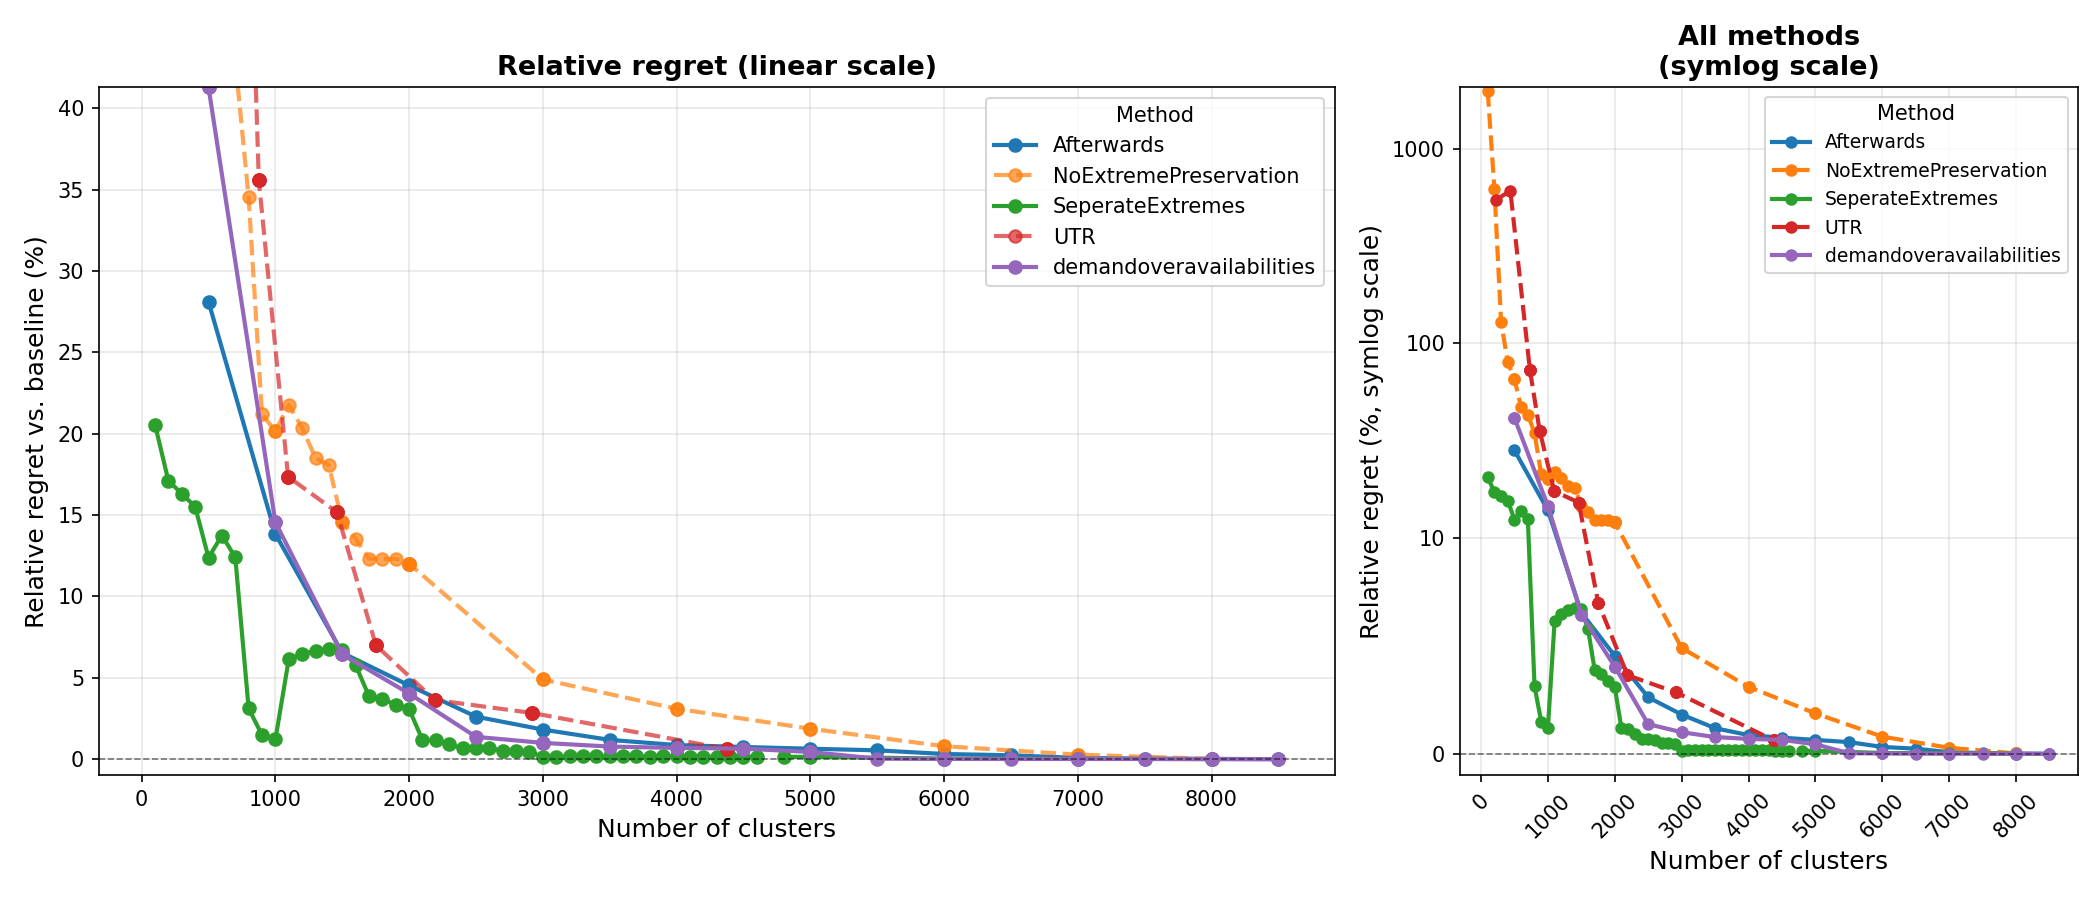
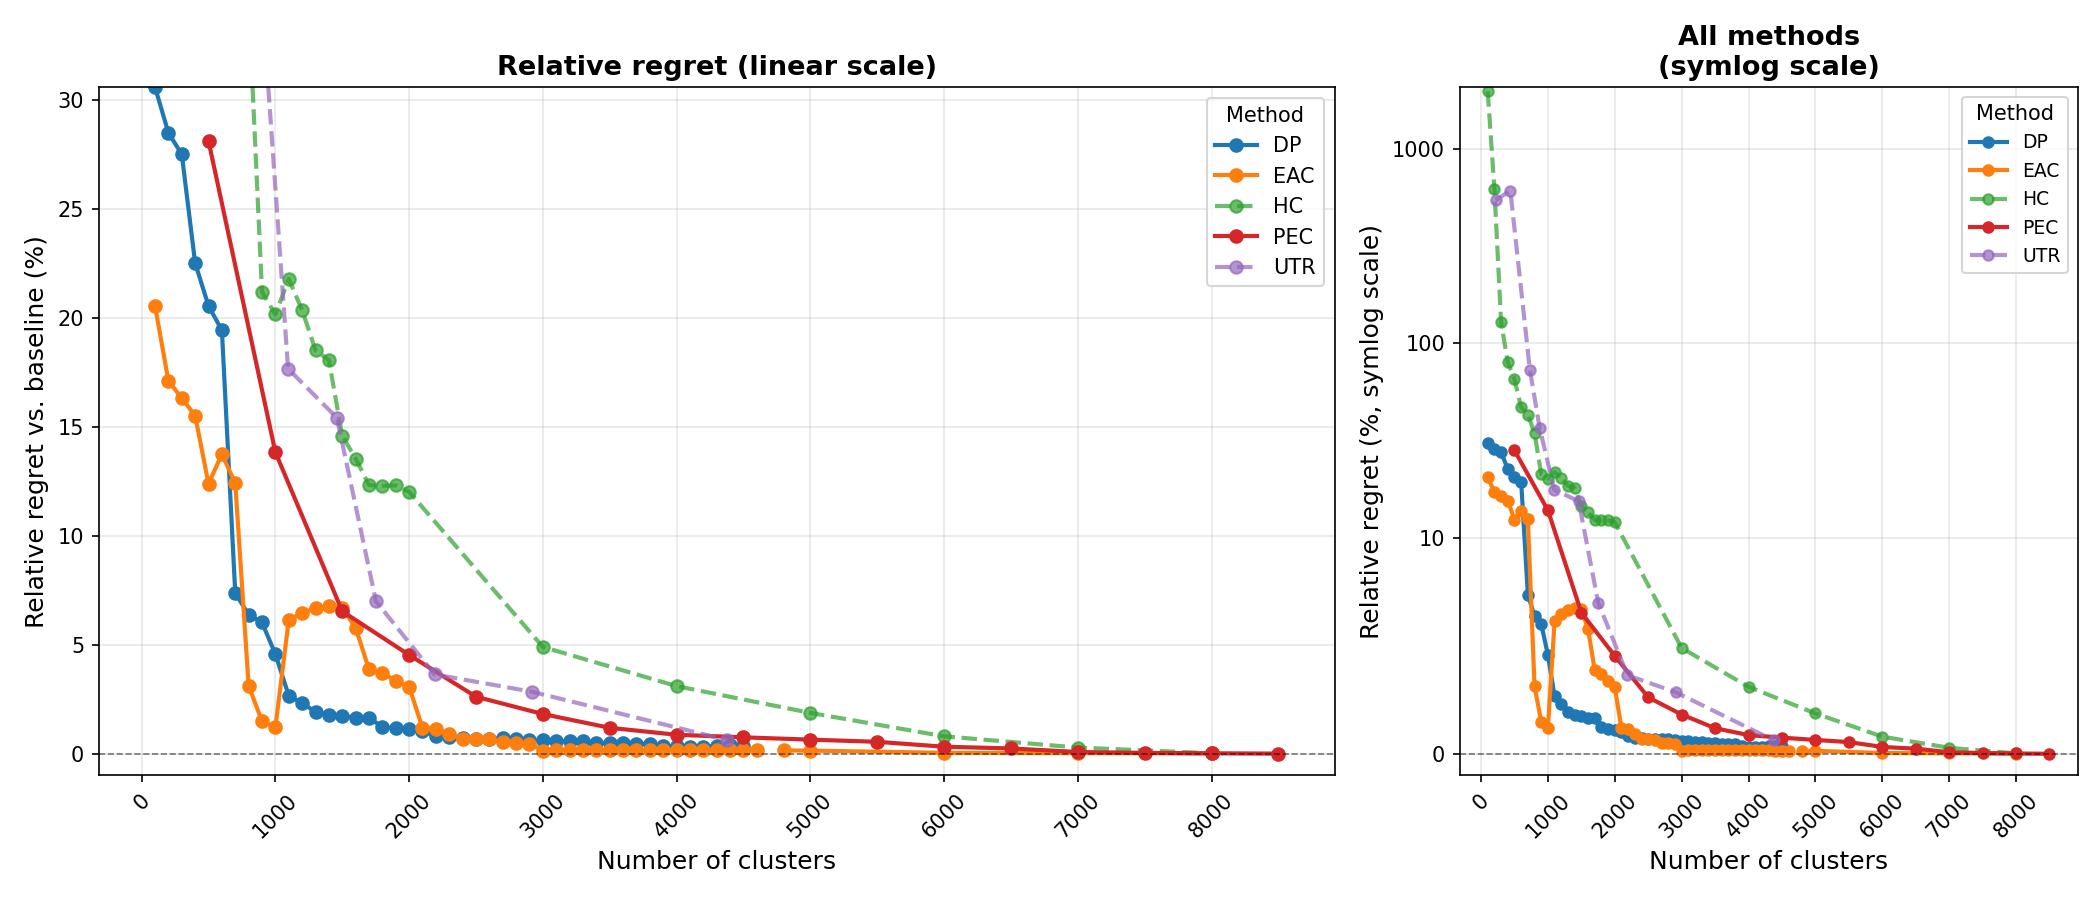
plotting relative regret

diff --git a/plotting/after/plot_relative_regret_vs_num_clusters.py b/plotting/after/plot_relative_regret_vs_num_clusters.py
@@ -13,75 +13,71 @@ output_dir.mkdir(parents=True, exist_ok=True)
 ENS_COST_PER_UNIT = 68887
 
 # -----------------------------
+# Experiment label mapping
+# Edit this dict to rename experiments in the legend.
+# Key:   substring matched against file_name (checked in order)
+# Value: label shown in the plot
+# -----------------------------
+EXPERIMENT_LABELS = {
+    # "demandoveravailabilities": "Demand/Avail.",
+    "utr":                       "UTR",
+    # "global_NoExtremePreservation": "HC (global)",
+    "perlocation_NoExtremePreservation": "HC",
+    "perlocation_SeperateExtremesSum":   "EAC",
+    "perlocation_Afterwards":   "PEC",
+    "perlocation_DynamicProgramming_hp":    "DP",
+    # "perlocation_DynamicProgramming_s672":    "DP (672)",
+    # "perlocation_DynamicProgramming_s2688":    "DP (2688)",
+    "base_case":                 "Base case",
+}
+
+# Which labels should appear dashed + faded in the main panel
+METHODS_ON_FOR_LOG_SCALE = {
+    "HC (global)",
+    "UTR",
+    "HC",
+}
+
+def label_from_file_name(file_name: str) -> str:
+    """Map a file_name to a display label using EXPERIMENT_LABELS."""
+    for key, label in EXPERIMENT_LABELS.items():
+        if key in file_name:
+            return label
+    return file_name  # fallback: show raw name
+
+
+# -----------------------------
 # Load & prepare data
 # -----------------------------
 df = pd.read_csv(csv_path)
 
-methods = [
-    "SeperateExtremesSum",
-    "Afterwards",
-    "NoExtremePreservation",
-    # "NoExtremePreservation Global",
-    "base_case",
-    # "demandoveravailabilities",
-    "UTR",
-    "DynamicProgramming"
-    
-]
+# Derive display label from file_name
+df["label"] = df["file_name"].apply(label_from_file_name)
 
-methods_on_for_log_scale = [
-    "NoExtremePreservation",
-    "UTR",
-    "NoExtremePreservation Global",
-]
+# Keep only experiments that appear in EXPERIMENT_LABELS
+known_labels = set(EXPERIMENT_LABELS.values())
+df = df[df["label"].isin(known_labels)]
 
-df = df[df["method"].isin(methods)]
-# Clean up method names if needed
-df['method'] = df['method'].str.strip()
-
-df.loc[df["method"] == "SeperateExtremesSum", "method"] = "SeperateExtremes"
-
-df["ens_cost"] = df["energy_not_served"] * ENS_COST_PER_UNIT
-df["total_cost"] = (
-    df["investment_cost"]
-    + df["true_operational_cost"]
-    - df["ens_cost"]   # operational cost already includes ENS; add explicit ENS cost
-    + df["ens_cost"]
-)
-# Simpler: total = investment + operational (which includes ENS implicitly) + explicit ENS penalty
-# Based on original script: total_regret = ens_cost + operational_cost_without_ens + investment_cost
-#   where operational_cost_without_ens = true_operational_cost - ens_cost
-# So: total_regret = true_operational_cost + investment_cost  (ens_cost cancels out, then re-added)
-# Actually from original: total = (true_op - ens_cost) + ens_cost + investment = true_op + investment
-# But that's just true_op + investment. Let's stay consistent with original script:
 df["ens_cost"] = df["energy_not_served"] * ENS_COST_PER_UNIT
 df["operational_cost_without_ens"] = df["true_operational_cost"] - df["ens_cost"]
 df["total_regret"] = df["ens_cost"] + df["operational_cost_without_ens"] + df["investment_cost"]
 
-# Baseline: 8760 clusters (one row, no method ambiguity assumed)
 baseline_row = df[df["num_clusters"] == 8760]
 assert len(baseline_row) == 1, f"Expected 1 baseline row, got {len(baseline_row)}"
 baseline_value = baseline_row["total_regret"].values[0]
 
 df["relative_regret"] = (df["total_regret"] - baseline_value) * 100 / baseline_value
 
-# Exclude baseline from line plots (it's a single point at 8760, no line to draw)
 plot_df = df[df["num_clusters"] != 8760].copy()
 
-methods = sorted(plot_df["method"].unique())
-# x_vals = sorted(plot_df["num_clusters"].unique())
+labels = sorted(plot_df["label"].unique())
 x_vals = list(range(0, 8760, 1000))
 
-# Colour palette — one colour per method
 colors = plt.cm.tab10.colors
-method_colors = {m: colors[i % len(colors)] for i, m in enumerate(methods)}
-
-other_methods = [m for m in methods if m not in methods_on_for_log_scale]
+label_colors = {lbl: colors[i % len(colors)] for i, lbl in enumerate(labels)}
 
 # -----------------------------
-# Figure: two-panel layout
-# Main panel  — all methods except NoExtremePreservation
-# Inset panel — all methods including NoExtremePreservation (log scale)
+# Plot
 # -----------------------------
 fig, (ax_main, ax_log) = plt.subplots(
     1, 2,
@@ -89,63 +85,42 @@ fig, (ax_main, ax_log) = plt.subplots(
     gridspec_kw={"width_ratios": [2, 1]},
 )
 
-# Determine y-limit based only on non-log-scale methods
 y_max = plot_df[
-    ~plot_df["method"].isin(methods_on_for_log_scale)
+    ~plot_df["label"].isin(METHODS_ON_FOR_LOG_SCALE)
 ]["relative_regret"].max()
 
-# --- Main panel ---
-for method in methods:
-    sub = plot_df[plot_df["method"] == method].sort_values("num_clusters")
+for ax, use_log in [(ax_main, False), (ax_log, True)]:
+    for lbl in labels:
+        sub = plot_df[plot_df["label"] == lbl].sort_values("num_clusters")
+        is_log_only = lbl in METHODS_ON_FOR_LOG_SCALE
+        ax.plot(
+            sub["num_clusters"],
+            sub["relative_regret"],
+            marker="o",
+            label=lbl,
+            color=label_colors[lbl],
+            linewidth=2,
+            markersize=6 if not use_log else 5,
+            linestyle="--" if is_log_only else "-",
+            alpha=0.7 if is_log_only else 1.0,
+        )
 
-    ax_main.plot(
-        sub["num_clusters"],
-        sub["relative_regret"],
-        marker="o",
-        label=method,
-        color=method_colors[method],
-        linewidth=2,
-        markersize=6,
-        linestyle="--" if method in methods_on_for_log_scale else "-",
-        alpha=0.7 if method in methods_on_for_log_scale else 1.0,
-    )
+    ax.axhline(0, color="black", linewidth=0.8, linestyle="--", alpha=0.5)
+    ax.set_xlabel("Number of clusters", fontsize=12)
+    ax.set_xticks(x_vals)
+    ax.tick_params(axis="x", rotation=45)
+    ax.legend(title="Method", fontsize=9 if use_log else 10)
+    ax.grid(True, alpha=0.3)
 
-ax_main.axhline(0, color="black", linewidth=0.8, linestyle="--", alpha=0.5)
-ax_main.set_xlabel("Number of clusters", fontsize=12)
 ax_main.set_ylabel("Relative regret vs. baseline (%)", fontsize=12)
 ax_main.set_title("Relative regret (linear scale)", fontsize=13, fontweight="bold")
-ax_main.set_xticks(x_vals)
 ax_main.set_ylim(top=y_max, bottom=-1)
-# ax_main.set_ylim(top=100, bottom=-1)
-ax_main.legend(title="Method", fontsize=10)
-ax_main.grid(True, alpha=0.3)
 
-# --- Log panel (all methods incl. No EP) ---
-for method in methods:
-    sub = plot_df[plot_df["method"] == method].sort_values("num_clusters")
-    # log scale needs positive values; shift so minimum > 0
-    ax_log.plot(
-        sub["num_clusters"],
-        sub["relative_regret"],
-        marker="o",
-        label=method,
-        color=method_colors[method],
-        linewidth=2,
-        markersize=5,
-        linestyle="--" if method in methods_on_for_log_scale else "-",
-    )
-
-ax_log.axhline(0, color="black", linewidth=0.8, linestyle="--", alpha=0.5)
-ax_log.set_yscale("symlog", linthresh=10)   # symlog handles negative + large positive
+ax_log.set_yscale("symlog", linthresh=10)
 ax_log.set_ylim(bottom=-1)
 ax_log.yaxis.set_major_formatter(mticker.ScalarFormatter())
-ax_log.set_xlabel("Number of clusters", fontsize=12)
 ax_log.set_ylabel("Relative regret (%, symlog scale)", fontsize=12)
 ax_log.set_title("All methods\n(symlog scale)", fontsize=13, fontweight="bold")
-ax_log.set_xticks(x_vals)
-ax_log.tick_params(axis="x", rotation=45)
-ax_log.legend(title="Method", fontsize=9)
-ax_log.grid(True, alpha=0.3)
 
 plt.tight_layout()
 out_path = output_dir / "relative_regret_vs_clusters.png"
@@ -154,4 +129,4 @@ plt.close()
 
 print(f"Saved to {out_path}")
 print("\nRelative regret values:")
-print(df[["method", "num_clusters", "relative_regret"]].to_string(index=False))
+print(df[["label", "num_clusters", "relative_regret"]].to_string(index=False))

diff --git a/plotting/after/combine_regret_data.py b/plotting/after/combine_regret_data.py
@@ -153,24 +153,37 @@ if not csv_files:
 
 df = pd.concat([pd.read_csv(f) for f in csv_files], ignore_index=True)
 
+# Keep only the last run per (file_name, calc_ens) — earlier rows are buggy reruns
+df = df.groupby(["file_name", "calc_ens"], sort=False).last().reset_index()
+
 # Drop unwanted columns (ignore if already absent)
 df.drop(columns=[c for c in COLS_TO_DROP if c in df.columns], inplace=True)
 
-# Separate base runs and ENS runs, then merge
+# df["calc_ens"] = df["calc_ens"].map({"true": True, "false": False})
+
 df_base = df[df["calc_ens"] == False].copy()
 df_ens  = df[df["calc_ens"] == True].copy()
+
+
+df_base = df_base.groupby("file_name", sort=False).last().reset_index()
+df_ens  = df_ens.groupby("file_name", sort=False).last().reset_index()
 
 ens_only_cols = ["energy_not_served"]
 merge_keys    = ["method", "num_clusters"]
 
+# Strip "ens_" prefix so file_name matches the base run
+df_ens["file_name"] = df_ens["file_name"].str.removeprefix("ens_")
+
+# Keep only the last ENS run per file_name
+df_ens = df_ens.groupby("file_name", sort=False).last().reset_index()
+
+df_base = df_base.drop(columns=["energy_not_served"], errors="ignore")
+
 df_merged = df_base.merge(
-    df_ens[merge_keys + ens_only_cols],
-    on=merge_keys,
+    df_ens[["file_name"] + ens_only_cols],
+    on="file_name",
     how="left",
-    suffixes=("_drop", ""),
 )
-drop_cols = [c for c in df_merged.columns if c.endswith("_drop")]
-df_merged.drop(columns=drop_cols, inplace=True)
 
 df_merged.loc[
     df_merged["file_name"].str.contains("demandoveravailabilities"),
@@ -219,9 +232,11 @@ df_merged["true_operational_cost"] = true_op_costs
 inv_df = pd.DataFrame(investment_rows)
 df_final = pd.concat([df_merged.reset_index(drop=True), inv_df.reset_index(drop=True)], axis=1)
 
-print(df_final[df_final["file_name"].str.contains("global", case=False, na=False)])
 df_final.loc[df_final["file_name"].str.contains("global", case=False, na=False), "method"] = "NoExtremePreservation Global"
 df_final = df_final.drop_duplicates()
+
+df_final.loc[df_final["num_clusters"] == 8760, "method"] = "base_case"
+df_final.loc[df_final["num_clusters"] == 8760, "file_name"] = "base_case"
 
 # ── Save ──────────────────────────────────────────────────────────────────────
 output_file.parent.mkdir(parents=True, exist_ok=True)

diff --git a/plotting/after/plot_runtime_vs_num_clusters.py b/plotting/after/plot_runtime_vs_num_clusters.py
@@ -15,10 +15,6 @@ output_dir.mkdir(parents=True, exist_ok=True)
 df = pd.read_csv(csv_path)
 df["method"] = df["method"].str.strip()
 
-df["runtime"] = df["t_solve"]
-
-df = df[df["calc_ens"] == False]
-
 # Separate baseline (8760) from clustered runs
 baseline = df[df["num_clusters"] == 8760].copy()
 plot_df = df[df["num_clusters"] != 8760].copy()